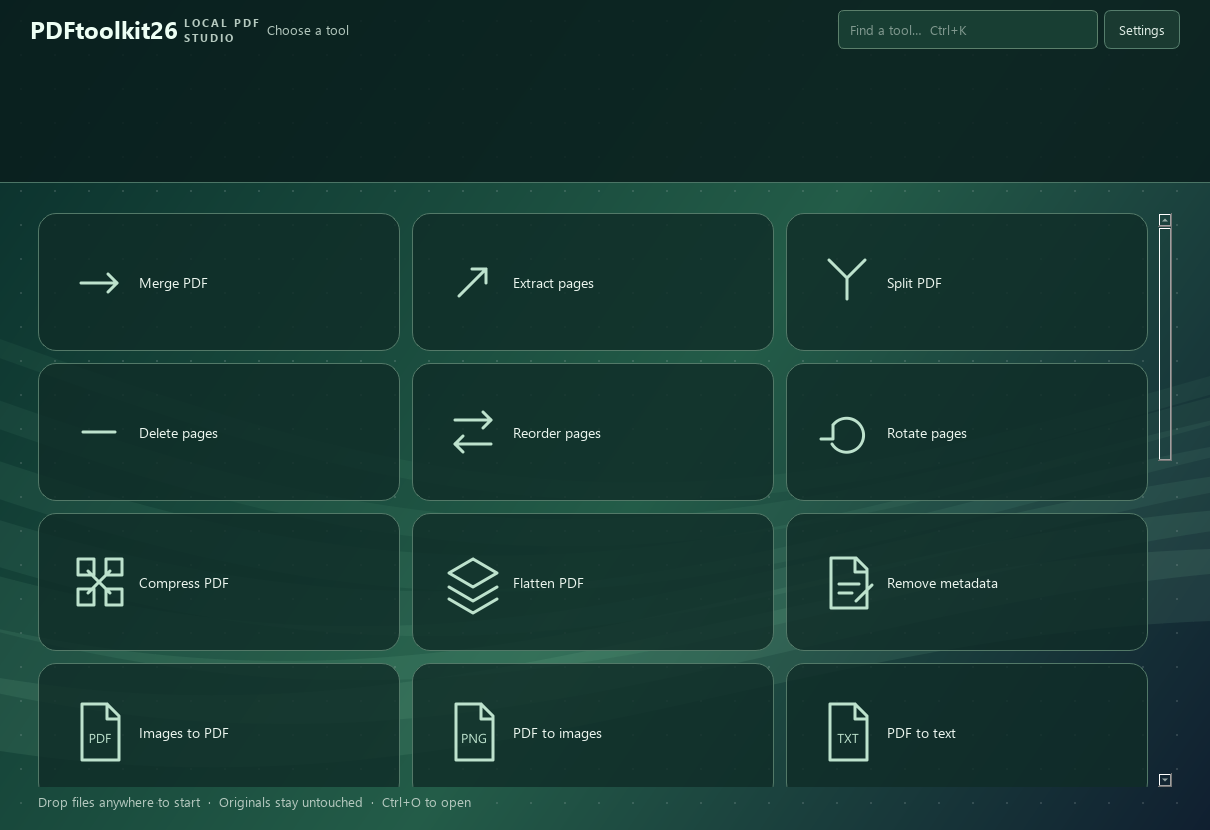
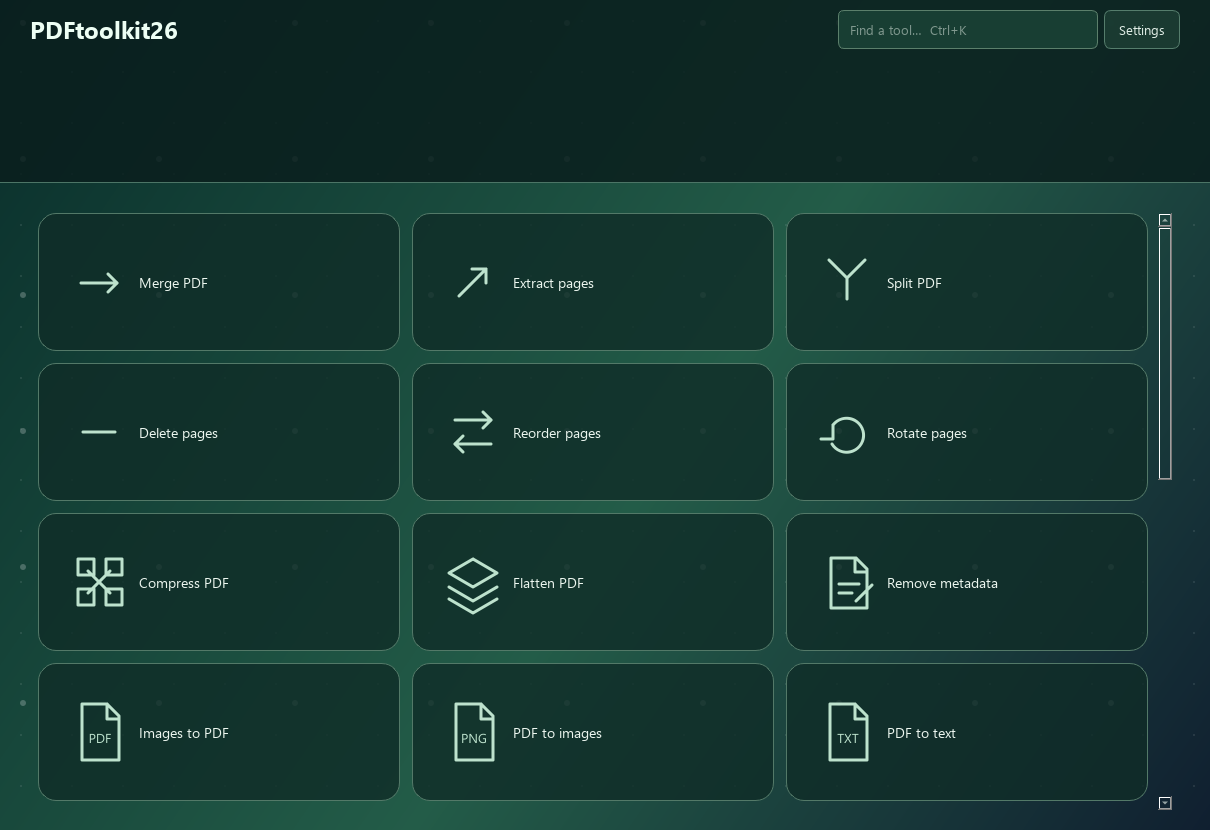
Replace swirls with layered dots, add UI zoom and compact input password control

diff --git a/deskpdf/app.py b/deskpdf/app.py
@@ -16,7 +16,7 @@ from PySide6.QtWidgets import (
 from deskpdf.catalog import TOOLS, TOOL_BY_ID
 from deskpdf.engine import open_document, run_tool
 from deskpdf.theme import STYLE
-from deskpdf.design import AmbientBackground, tool_icon
+from deskpdf.design import AmbientBackground, tool_icon, password_icon
 from deskpdf.merge_view import MergeView
 
 ASSETS = Path(__file__).parent / "assets"
@@ -131,8 +131,8 @@ class Window(QMainWindow):
         navigation.setContentsMargins(30, 10, 30, 10)
         top = QHBoxLayout()
         top.addWidget(button("PDFtoolkit26", lambda: self.show_catalog(), "brand"))
-        top.addWidget(label("LOCAL PDF STUDIO", "eyebrow"))
-        self.active_title = label("Choose a tool", "muted")
+
+        self.active_title = label("", "muted")
         top.addWidget(self.active_title)
         top.addStretch()
         self.search = QLineEdit()
@@ -154,8 +154,42 @@ class Window(QMainWindow):
         self.build_catalog()
         self.build_workbench()
         self.show_catalog()
+        self.ui_scale = 1.0
+        for shortcut in ("Ctrl++", "Ctrl+="):
+            QShortcut(QKeySequence(shortcut), self, activated=lambda: self.scale_ui(.1))
+        QShortcut(QKeySequence("Ctrl+-"), self, activated=lambda: self.scale_ui(-.1))
+        QShortcut(QKeySequence("Ctrl+0"), self, activated=lambda: self.scale_ui(reset=True))
         QShortcut(QKeySequence("Ctrl+O"), self, activated=self.choose_files)
         QShortcut(QKeySequence("Ctrl+K"), self, activated=self.focus_search)
+
+    def scale_ui(self, amount=0, reset=False):
+        import re
+        self.ui_scale = 1.0 if reset else round(max(.7, min(1.6, self.ui_scale + amount)), 2)
+        scaled = re.sub(r"(\d+(?:\.\d+)?)px", lambda match: f"{float(match.group(1)) * self.ui_scale:g}px", STYLE)
+        QApplication.instance().setStyleSheet(scaled)
+        for index in range(self.cards.count()):
+            card = self.cards.itemAt(index).widget()
+            if isinstance(card, QPushButton):
+                card.setIconSize(QSize(round(72 * self.ui_scale), round(72 * self.ui_scale)))
+                card.setMinimumHeight(round(138 * self.ui_scale))
+
+    def toggle_input_password(self):
+        self.password_panel.setVisible(self.password_panel.isHidden())
+        if self.password_panel.isVisible():
+            self.password.setFocus()
+
+    def confirm_input_password(self):
+        self.refresh_preview()
+        path = self.selected_path()
+        if path:
+            try:
+                with open_document(path, self.password.text()):
+                    pass
+            except Exception as error:
+                self.status.setText(str(error))
+                return
+        self.password_panel.hide()
+        self.status.clear()
 
     def add_editor_page(self):
         if self.worker and self.worker.isRunning():
@@ -178,10 +212,6 @@ class Window(QMainWindow):
 
     def show_settings(self):
         menu = QMenu(self)
-        motion = menu.addAction("Animated background")
-        motion.setCheckable(True)
-        motion.setChecked(self.centralWidget().timer.isActive())
-        motion.triggered.connect(lambda checked: self.centralWidget().timer.start() if checked else self.centralWidget().timer.stop())
         menu.addAction("About PDFtoolkit26", self.about)
         menu.exec(self.cursor().pos())
 
@@ -197,7 +227,7 @@ class Window(QMainWindow):
         self.cards.setSpacing(12)
         scroll.setWidget(self.catalog)
         layout.addWidget(scroll, 1)
-        layout.addWidget(label("Drop files anywhere to start  ·  Originals stay untouched  ·  Ctrl+O to open", "muted"))
+
         self.stack.addWidget(page)
 
     def show_catalog(self, group="All tools"):
@@ -208,7 +238,7 @@ class Window(QMainWindow):
         self.description.hide()
         self.topbar.setFixedHeight(round(self.height() * .22))
         self.group = group
-        self.active_title.setText("Choose a tool")
+        self.active_title.setText("")
         self.stack.setCurrentIndex(0)
         self.filter_catalog()
 
@@ -260,7 +290,7 @@ class Window(QMainWindow):
         settings = QWidget(objectName="catalog")
         left = QVBoxLayout(settings)
         left.setContentsMargins(0, 0, 16, 0)
-        left.addWidget(label("1   YOUR FILES", "eyebrow"))
+        left.addWidget(label("Files", "eyebrow"))
         self.file_list = QListWidget()
         self.file_list.setFixedHeight(65)
         self.file_list.setDragDropMode(QListWidget.DragDropMode.InternalMove)
@@ -278,9 +308,27 @@ class Window(QMainWindow):
         self.password.setEchoMode(QLineEdit.EchoMode.Password)
         self.password.setAccessibleName("Document opening password")
         self.password.editingFinished.connect(self.refresh_preview)
-        left.addWidget(self.password)
+        self.password.setPlaceholderText("Password for input PDF")
+        self.password_panel = QWidget()
+        password_row = QHBoxLayout(self.password_panel)
+        password_row.setContentsMargins(0, 0, 0, 0)
+        password_row.addWidget(self.password)
+        confirm = button("→", self.confirm_input_password, "passwordConfirm")
+        confirm.setFixedSize(34, 34)
+        confirm.setToolTip("Unlock input PDF")
+        password_row.addWidget(confirm)
+        self.password_panel.hide()
+        self.password_button = button("", self.toggle_input_password)
+        self.password_button.setIcon(password_icon())
+        self.password_button.setIconSize(QSize(24, 24))
+        self.password_button.setFixedWidth(46)
+        self.password_button.setToolTip("Unlock a password-protected input PDF")
+        self.password_button.setAccessibleName("Input PDF password")
+        left.addWidget(self.password_button)
+        left.addWidget(self.password_panel)
+        self.password.returnPressed.connect(self.confirm_input_password)
         left.addSpacing(4)
-        self.settings_title = label("2   MAKE IT YOURS", "eyebrow")
+        self.settings_title = label("Options", "eyebrow")
         left.addWidget(self.settings_title)
         self.form_widget = QWidget()
         self.form = QFormLayout(self.form_widget)
@@ -290,7 +338,7 @@ class Window(QMainWindow):
         self.visual_merge = MergeView()
         self.visual_merge.page_created.connect(lambda path: self.add_paths([path]))
         self.no_options = label("Ready when you are. This tool needs no extra settings.", "muted")
-        left.addWidget(self.no_options)
+        self.no_options.hide()
         left.addStretch()
         settings_scroll.setWidget(settings)
         self.editor_controls = QWidget()
@@ -319,7 +367,7 @@ class Window(QMainWindow):
         paging.addWidget(button("→", lambda: self.change_page(1)))
         right.addLayout(paging)
         self.preview_hint = label("Preview shows your original. Open the saved file to review changes.", "muted")
-        right.addWidget(self.preview_hint)
+        self.preview_hint.hide()
         self.preview_frame = preview_frame
         columns.addWidget(preview_frame, 6)
         columns.addWidget(self.visual_merge, 9)
@@ -331,7 +379,7 @@ class Window(QMainWindow):
         self.status.setTextFormat(Qt.TextFormat.PlainText)
         self.topbar.layout().addWidget(self.status)
         footer = QHBoxLayout()
-        footer.addWidget(label("Saved as a new file. Your original stays yours.", "muted"), 1)
+        footer.addStretch()
         self.open_result = button("Open result ↗", self.open_output)
         self.open_result.hide()
         self.topbar.layout().addWidget(self.open_result)
@@ -343,7 +391,7 @@ class Window(QMainWindow):
     def select_tool(self, tool):
         self.add_page_action.show()
         self.editor_controls.show()
-        self.description.show()
+        self.description.hide()
         self.topbar.setFixedHeight(round(self.height() * .40))
         self.visual_merge.controls.setVisible(tool.id == "merge")
         self.current_tool = tool
@@ -385,8 +433,8 @@ class Window(QMainWindow):
         self.settings_title.setVisible(tool.id != "merge")
         self.order_hint.setText("Arrange pages directly in the thumbnail grid." if tool.id == "merge" else "Drag files to change their order.")
         self.preview_frame.setVisible(tool.id != "merge")
-        self.no_options.setVisible(not tool.fields and tool.id != "merge")
-        self.order_hint.setVisible(tool.multiple and tool.id != "merge")
+        self.no_options.hide()
+        self.order_hint.hide()
         self.file_list.setDragDropMode(QListWidget.DragDropMode.InternalMove if tool.multiple else QListWidget.DragDropMode.NoDragDrop)
         self.status.clear()
         self.open_result.hide()
@@ -553,7 +601,7 @@ class Window(QMainWindow):
             QDesktopServices.openUrl(QUrl.fromLocalFile(str(self.last_output)))
 
     def about(self):
-        QMessageBox.about(self, "About PDFtoolkit26", "PDFtoolkit26 0.4.0\n\nA local-first, open-source PDF workbench.\nAGPL-3.0-or-later · Built with Qt and MuPDF.\n\nNo telemetry, accounts or document uploads.\nOCR needs Tesseract; Office input needs LibreOffice.\nVisual signatures are not certificate signatures.\n\nWindows 11: Explorer commands appear under Show more options.")
+        QMessageBox.about(self, "About PDFtoolkit26", "PDFtoolkit26 0.4.1\n\nA local-first, open-source PDF workbench.\nAGPL-3.0-or-later · Built with Qt and MuPDF.\n\nNo telemetry, accounts or document uploads.\nOCR needs Tesseract; Office input needs LibreOffice.\nVisual signatures are not certificate signatures.\n\nWindows 11: Explorer commands appear under Show more options.")
 
     def dragEnterEvent(self, event):
         if event.mimeData().hasUrls() and not (self.worker and self.worker.isRunning()):

diff --git a/deskpdf/design.py b/deskpdf/design.py
@@ -1,9 +1,22 @@
-import math
-
-from PySide6.QtCore import QByteArray, Qt, QTimer
+from PySide6.QtCore import QByteArray, Qt, QTimer, QRectF
 from PySide6.QtGui import QColor, QIcon, QLinearGradient, QPainter, QPainterPath, QPen, QPixmap
 from PySide6.QtSvg import QSvgRenderer
 from PySide6.QtWidgets import QWidget
+
+
+def password_icon():
+    pixmap = QPixmap(48, 48)
+    pixmap.fill(Qt.GlobalColor.transparent)
+    painter = QPainter(pixmap)
+    painter.setRenderHint(QPainter.RenderHint.Antialiasing)
+    painter.setPen(QPen(QColor("#cce8d6"), 3))
+    painter.drawRoundedRect(QRectF(6, 20, 23, 22), 3, 3)
+    painter.drawArc(QRectF(10, 6, 15, 26), 0, 180 * 16)
+    painter.drawEllipse(QRectF(29, 9, 10, 10))
+    painter.drawLine(34, 19, 34, 34)
+    painter.drawLine(34, 28, 41, 28)
+    painter.end()
+    return QIcon(pixmap)
 
 
 class AmbientBackground(QWidget):
@@ -13,7 +26,7 @@ class AmbientBackground(QWidget):
         self.timer = QTimer(self)
         self.timer.setInterval(40)
         self.timer.timeout.connect(self.advance)
-        self.timer.start()
+        # The dot background is static; no continuous repaint is needed.
 
     def advance(self):
         if self.window().isMinimized() or not self.isVisible():
@@ -29,21 +42,13 @@ class AmbientBackground(QWidget):
         gradient.setColorAt(.55, QColor("#235c48"))
         gradient.setColorAt(1, QColor("#101f30"))
         painter.fillRect(self.rect(), gradient)
-        for band in range(7):
-            wave = QPainterPath()
-            for x in range(-40, self.width() + 50, 16):
-                y = self.height() * (.42 + band * .055) + math.sin(x / 360 + self.phase + band * .22) * 95 + math.sin(x / 650 - self.phase) * 60
-                if x == -40:
-                    wave.moveTo(x, y)
-                else:
-                    wave.lineTo(x, y)
-            painter.setPen(QPen(QColor(133, 210, 167, 14 + band * 2), 18 + band * 9))
-            painter.drawPath(wave)
         painter.setPen(Qt.PenStyle.NoPen)
-        painter.setBrush(QColor(177, 190, 188, 65))
-        for x in range(20, self.width(), 34):
-            for y in range(20, self.height(), 34):
-                painter.drawEllipse(x, y, 2, 2)
+        for spacing, diameter, alpha in ((51, 2, 45), (136, 6, 90)):
+            painter.setBrush(QColor(177, 190, 188, alpha))
+            for x in range(20, self.width(), spacing):
+                for y in range(20, self.height(), spacing):
+                    painter.drawEllipse(x, y, diameter, diameter)
+
 
 
 def tool_icon(tool):

diff --git a/tests/test_ui.py b/tests/test_ui.py
@@ -86,3 +86,23 @@ def test_top_navigation_and_motion_control():
     background.timer.stop()
     assert not background.timer.isActive()
     window.close()
+
+
+def test_ui_scale_and_password_disclosure():
+    app = QApplication.instance() or QApplication([])
+    window = Window()
+    assert window.password_panel.isHidden()
+    window.show()
+    from deskpdf.catalog import TOOL_BY_ID
+    window.select_tool(TOOL_BY_ID["merge"])
+    window.toggle_input_password()
+    assert not window.password_panel.isHidden()
+    window.confirm_input_password()
+    assert window.password_panel.isHidden()
+    window.scale_ui(.1)
+    assert window.ui_scale == 1.1
+    window.scale_ui(-.1)
+    assert window.ui_scale == 1.0
+    window.scale_ui(reset=True)
+    assert not window.centralWidget().timer.isActive()
+    window.close()

diff --git a/tests/conftest.py b/tests/conftest.py
@@ -4,6 +4,7 @@ os.environ.setdefault("QT_QPA_PLATFORM", "offscreen")
 import gc
 import pytest
 from PySide6.QtWidgets import QApplication
+from PySide6.QtCore import QCoreApplication, QEvent
 
 
 @pytest.fixture(scope="session", autouse=True)
@@ -12,3 +13,13 @@ def application_session():
     yield application
     gc.collect()
     application.processEvents()
+
+
+@pytest.fixture(autouse=True)
+def close_test_windows(application_session):
+    yield
+    for window in QApplication.topLevelWidgets():
+        window.close()
+        window.deleteLater()
+    QCoreApplication.sendPostedEvents(None, QEvent.Type.DeferredDelete)
+    gc.collect()

diff --git a/deskpdf/theme.py b/deskpdf/theme.py
@@ -62,3 +62,5 @@ QSlider::handle:horizontal { background: #d1ecd8; width: 16px; margin: -6px 0; b
 STYLE += "QPushButton#brand { background: transparent; border: 0; padding: 0; font-size: 24px; font-weight: 700; color: #edfff4; }"
 
 STYLE += "QDialog { background: #123a31; } QToolButton { background: #214a3b; color: #e8f3ec; border: 1px solid #658775; border-radius: 6px; padding: 8px 16px; } QToolButton:checked { background: #bee2c5; color: #143a2a; }"
+
+STYLE += "QPushButton#passwordConfirm { border-radius: 17px; background: #bee2c5; color: #143a2a; padding: 0; text-align: center; font-size: 22px; }"

diff --git a/deskpdf/add_page.py b/deskpdf/add_page.py
@@ -41,7 +41,7 @@ class AddPageDialog(QDialog):
         self.setWindowTitle("Add page · PDFtoolkit26")
         self.resize(620, 760)
         layout = QVBoxLayout(self)
-        layout.addWidget(QLabel("A quiet page, a few words."))
+
         self.preview = QLabel()
         self.preview.setAlignment(Qt.AlignmentFlag.AlignCenter)
         layout.addWidget(self.preview, 1)

diff --git a/deskpdf/__init__.py b/deskpdf/__init__.py
@@ -1,1 +1,1 @@
-__version__ = "0.4.0"
+__version__ = "0.4.1"

diff --git a/README.md b/README.md
@@ -2,7 +2,7 @@
 
 **Your PDFs, at hand.** A quiet, local-first PDF workbench for Windows.
 
-Version 0.2 introduces a full-width single-row toolbar without category buttons, an animated green ambient background with a grey dot grid, and a gallery led by large vector tool icons. Use Settings to pause background animation. In Merge PDF, the Page size slider enlarges thumbnails from 140 to 650 pixels and re-renders pages sharply without changing your selection or order.
+Version 0.2 introduces a full-width single-row toolbar without category buttons, an animated green ambient background with a grey dot grid, and a gallery led by large vector tool icons. The current background is a static green gradient with layered dot grids. In Merge PDF, the Page size slider enlarges thumbnails from 140 to 650 pixels and re-renders pages sharply without changing your selection or order.
 
 ![PDFtoolkit26 tool library](docs/screenshots/library.png)
 
@@ -10,7 +10,7 @@ PDFtoolkit26 brings common PDF jobs into one native desktop app: choose a tool, 
 
 ## Install
 
-Download the installer from [GitHub Releases](https://github.com/pommfritzer/DeskPDFtoolkit/releases), or run `PDFtoolkit26-0.4.0-Setup.exe` from the local `releases` folder. The installer includes Python, Qt and the PDF engine; users do not install Python. Installation is per user and needs no administrator privileges.
+Download the installer from [GitHub Releases](https://github.com/pommfritzer/DeskPDFtoolkit/releases), or run `PDFtoolkit26-0.4.1-Setup.exe` from the local `releases` folder. The installer includes Python, Qt and the PDF engine; users do not install Python. Installation is per user and needs no administrator privileges.
 
 The optional Explorer integration adds **Open in PDFtoolkit26**, **Compress with PDFtoolkit26**, and **Extract pages with PDFtoolkit26** to PDF right-click menus. On Windows 11, use **Show more options**. Your default PDF reader is unchanged. Uninstall from Windows Settings to remove the app and its menu entries.
 
@@ -74,7 +74,7 @@ Install [Inno Setup 6](https://jrsoftware.org/isinfo.php), then:
 
 To upgrade the local installation and open Merge PDF, run `./scripts/install.ps1` from the project folder. It uses the project version's installer, retains installer task preferences, closes the previous app through the installer, and launches once afterward. Installation stays in `%LOCALAPPDATA%\Programs\PDFtoolkit26`; reinstalling updates the same Windows uninstall entry. Disabling Explorer integration or the desktop shortcut during setup removes those entries.
 
-The script regenerates the icon, runs tests, collects dependency licenses, bundles a standalone application with PyInstaller, checks bundled startup, and compiles `releases/PDFtoolkit26-0.4.0-Setup.exe`. Dependency discovery uses an isolated PATH to avoid picking up incompatible DLLs from unrelated installed software. The portable app is in `dist/PDFtoolkit26`. The Windows GitHub Actions workflow builds and uploads the installer on pushes and pull requests. Pushing a version tag such as `v0.4.0` also publishes the installer and SHA-256 checksum to a preview release. Update the version in `pyproject.toml`, `deskpdf/__init__.py`, the About dialog, installer definition and release workflow before tagging a new version.
+The script regenerates the icon, runs tests, collects dependency licenses, bundles a standalone application with PyInstaller, checks bundled startup, and compiles `releases/PDFtoolkit26-0.4.1-Setup.exe`. Dependency discovery uses an isolated PATH to avoid picking up incompatible DLLs from unrelated installed software. The portable app is in `dist/PDFtoolkit26`. The Windows GitHub Actions workflow builds and uploads the installer on pushes and pull requests. Pushing a version tag such as `v0.4.1` also publishes the installer and SHA-256 checksum to a preview release. Update the version in `pyproject.toml`, `deskpdf/__init__.py`, the About dialog, installer definition and release workflow before tagging a new version.
 
 ## Architecture
 
@@ -98,3 +98,7 @@ Use **Add page** in the editor to create an A4 title or divider page. The live c
 ### Page editing in 0.4
 
 Editor controls are grouped in the expanded top partition. Each PDF set uses a numbered colour accent. The first-page arrow expands the set; the last-page arrow collapses it without excluding pages from export. Drag thumbnails across sets, or use **Move page to…** for an exact document position. Each thumbnail has delete above crop at the top right. The crop overlay supports dragging edges, corners or drawing a new rectangle; Reset restores the current crop boundary. Cropping hides margins and is not secure redaction. Page deletion affects this editing sequence, not your original files.
+
+### 0.4.1 interface controls
+
+Ctrl++ (or Ctrl+=) enlarges the interface, Ctrl+- reduces it, and Ctrl+0 resets it. Thumbnail size remains independently adjustable. Background dots use 6 px marks on a 136 px grid and 2 px marks on a 51 px grid. Swirls and continuous background repainting are removed. The lock-and-key control reveals a masked **input PDF password** field with a green arrow confirmation; it does not set output encryption. Use Protect PDF for that.

diff --git a/docs/VALIDATION.md b/docs/VALIDATION.md
@@ -39,3 +39,7 @@ All 49 tests pass. Twelve combinations verify exact horizontal and vertical cent
 ## 0.4.0 page editor
 
 All 51 tests pass. New tests verify source-preserving per-page crop export, set collapse/expand without selection loss, and deletion surviving grid refresh. The expanded control partition and page buttons were rendered and inspected.
+
+## 0.4.1 static dots and compact input unlock
+
+All 52 tests pass, including UI scale changes/reset, input-password disclosure, and the inactive background timer. Offscreen UI tests now explicitly delete their windows before QApplication teardown. This removes an intermittent teardown failure that previously occurred after the tests themselves had passed.
